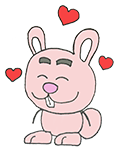
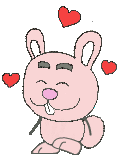
assets update

Changed region(s): [[0.0, 0.16, 0.975, 0.9867], [0.475, 0.0267, 0.675, 0.1867]]

diff --git a/KillCupid/src/com/limagame/projects/killcupid/GameActivity.java b/KillCupid/src/com/limagame/projects/killcupid/GameActivity.java
@@ -58,16 +58,26 @@ public class GameActivity extends SimpleBaseGameActivity {
 	public TiledTextureRegion mBananaTextureRegion;
 	public TiledTextureRegion mFaceTextureRegion;
 
-	public TiledTextureRegion mPlayerTiledTextureRegionBear;
-	public TiledTextureRegion mPlayerTiledTextureRegionRabbit;
-	public TiledTextureRegion mPlayerTiledTextureRegionPonny;
+	//public TiledTextureRegion mPlayerTiledTextureRegionBear;
+	//public TiledTextureRegion mPlayerTiledTextureRegionBear2;
+	
+	//public TiledTextureRegion mPlayerTiledTextureRegionRabbit;
+	//public TiledTextureRegion mPlayerTiledTextureRegionRabbit2;
+	
+	//public TiledTextureRegion mPlayerTiledTextureRegionPonny;
+	//public TiledTextureRegion mPlayerTiledTextureRegionPonny2;
 
 	public TiledTextureRegion mPlayerTiledTextureRegionCupidBoss;
 	public TiledTextureRegion mPlayerTiledTextureRegionProjectile;
 
 	public TiledTextureRegion mEnemyTiledTextureRegionBear;
+	public TiledTextureRegion mEnemyTiledTextureRegionBear2;
+	
 	public TiledTextureRegion mEnemyTiledTextureRegionPony;
+	public TiledTextureRegion mEnemyTiledTextureRegionPony2;
+	
 	public TiledTextureRegion mEnemyTiledTextureRegionRabbit;
+	public TiledTextureRegion mEnemyTiledTextureRegionRabbit2;
 
 	public ITextureRegion mHeartBroken;
 	public ITextureRegion mHeartComplete;
@@ -109,15 +119,27 @@ public class GameActivity extends SimpleBaseGameActivity {
 				.createTiledFromAsset(this.mBitmapTextureAtlas, this,
 						"cupid1.png", 1, 1);
 
-		this.mPlayerTiledTextureRegionPonny = BitmapTextureAtlasTextureRegionFactory
+		
+		this.mEnemyTiledTextureRegionPony = BitmapTextureAtlasTextureRegionFactory
 				.createTiledFromAsset(this.mBitmapTextureAtlas, this,
-						"pony.png", 1, 1);
-		this.mPlayerTiledTextureRegionRabbit = BitmapTextureAtlasTextureRegionFactory
+						"pony1.png", 1, 1);
+		this.mEnemyTiledTextureRegionPony2 = BitmapTextureAtlasTextureRegionFactory
+				.createTiledFromAsset(this.mBitmapTextureAtlas, this,
+						"pony2.png", 1, 1);
+		
+		this.mEnemyTiledTextureRegionRabbit = BitmapTextureAtlasTextureRegionFactory
+				.createTiledFromAsset(this.mBitmapTextureAtlas, this,
+						"rabit1.png", 1, 1);
+		this.mEnemyTiledTextureRegionRabbit = BitmapTextureAtlasTextureRegionFactory
 				.createTiledFromAsset(this.mBitmapTextureAtlas, this,
 						"rabit2.png", 1, 1);
-		this.mPlayerTiledTextureRegionBear = BitmapTextureAtlasTextureRegionFactory
+		
+		this.mEnemyTiledTextureRegionBear = BitmapTextureAtlasTextureRegionFactory
 				.createTiledFromAsset(this.mBitmapTextureAtlas, this,
-						"bear.png", 1, 1);
+						"bear1.png", 1, 1);
+		this.mEnemyTiledTextureRegionBear2 = BitmapTextureAtlasTextureRegionFactory
+				.createTiledFromAsset(this.mBitmapTextureAtlas, this,
+						"bear2.png", 1, 1);
 
 		// juanisimo2.png
 		this.mPlayerTiledTextureRegionCupidBoss = BitmapTextureAtlasTextureRegionFactory

diff --git a/KillCupid/src/com/limagame/projects/killcupid/scene/IntroScene.java b/KillCupid/src/com/limagame/projects/killcupid/scene/IntroScene.java
@@ -1,0 +1,32 @@
+package com.limagame.projects.killcupid.scene;
+
+import com.limagame.projects.killcupid.manager.SceneManager.SceneType;
+
+public class IntroScene extends BaseScene
+{
+
+	@Override
+	public void createScene() {
+		// TODO Auto-generated method stub
+		
+	}
+
+	@Override
+	public void onBackKeyPressed() {
+		// TODO Auto-generated method stub
+		
+	}
+
+	@Override
+	public SceneType getSceneType() {
+		// TODO Auto-generated method stub
+		return null;
+	}
+
+	@Override
+	public void disposeScene() {
+		// TODO Auto-generated method stub
+		
+	}
+
+}
